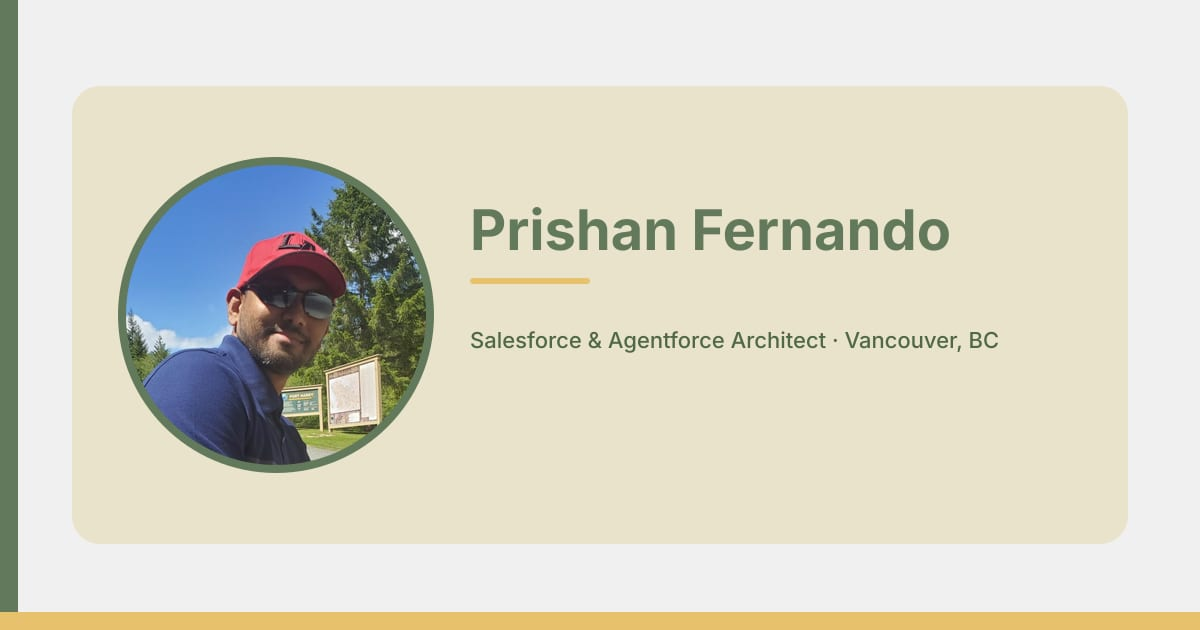
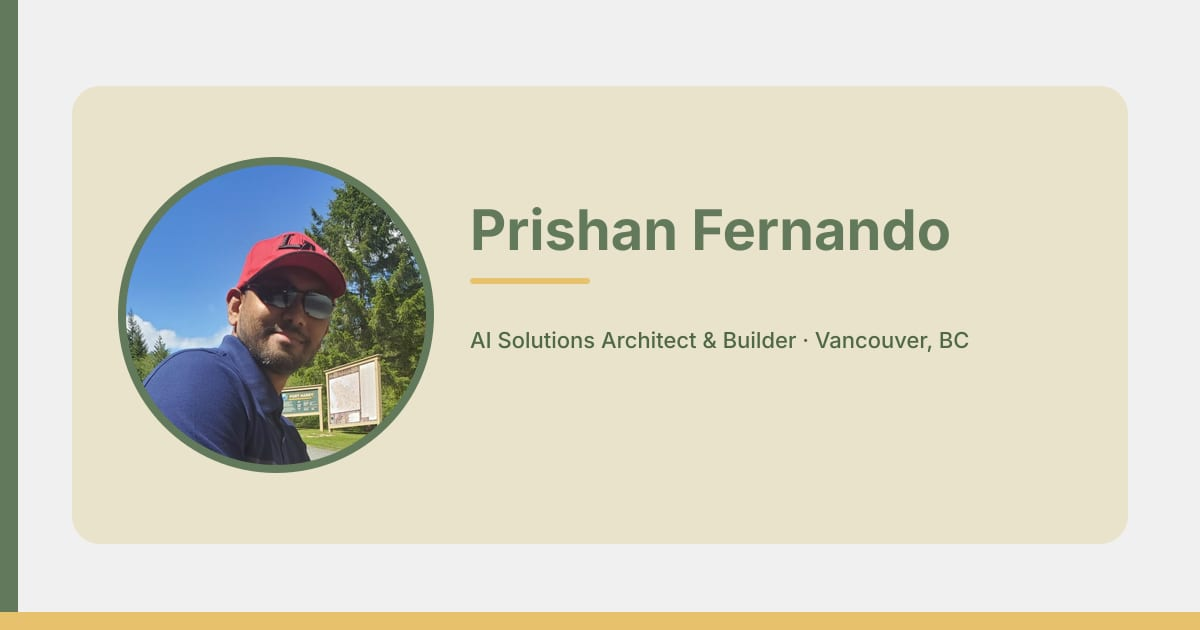
Rebrand default OG image and post CTA for AI Solutions Architect
Regenerate the 1200x630 share image with Prishan Fernando and
AI Solutions Architect & Builder · Vancouver, BC. Update the
end-of-post CTA to ask about a business problem AI could solve.

Changed region(s): [[0.37, 0.5127, 0.8325, 0.573]]

diff --git a/profile_website/components/Blog/PostFooterCta.vue b/profile_website/components/Blog/PostFooterCta.vue
@@ -2,7 +2,7 @@
   <section class="mt-16 pt-12 border-t border-gray-100 space-y-10">
     <div class="rounded-2xl border border-primary/15 bg-white p-6 sm:p-8">
       <p class="text-lg text-gray-800 leading-relaxed">
-        Have an Agentforce, integration or AI challenge?
+        Have a business problem AI could solve?
         <a
           :href="LINKEDIN_PROFILE_URL"
           target="_blank"
